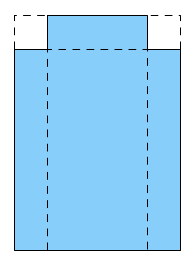
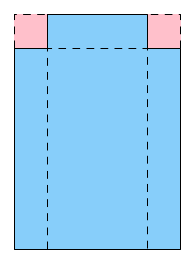
Muoks

diff --git a/kurssit/maa6/luku5/index.html b/kurssit/maa6/luku5/index.html
@@ -1418,7 +1418,7 @@ topnav: maa6
                 </header>
                 <div id="MAA6s2t508">
                     <p>
-                        Suorakulmion muotoisen pahvilevyn kulmiin leikataan viillot ja siitä taitellaan toisesta päädystään avoin, kanneton laatikko. (Kuvan valkoiset yhtenevät neliöt taitetaan laatikon sisäpuolelle ja laatikon sivuseinät kiinnitetään niiden avulla takaseinään.) Määritä kuvan valkoisten neliöiden sivun pituus niin, että laatikon tilavuus on mahdollisimman suuri. Pahvilevyn pituus on 60 cm ja leveys 45 cm. Mikä on laatikon suurin mahdollinen tilavuus?
+                        Suorakulmion muotoisen pahvilevyn kulmiin leikataan viillot ja siitä taitellaan toisesta päädystään avoin, kanneton laatikko. (Kuvan punaiset yhtenevät neliöt taitetaan laatikon sisäpuolelle ja laatikon sivuseinät kiinnitetään niiden avulla takaseinään.) Määritä kuvan punaisten neliöiden sivun pituus niin, että laatikon tilavuus on mahdollisimman suuri. Pahvilevyn pituus on 60 cm ja leveys 45 cm. Mikä on laatikon suurin mahdollinen tilavuus?
                         <br>
                         <img src="/kurssit/maa6/kuvat/kuva107.png" max-width: 100%; width: auto; height: auto;/>
                     </p>
